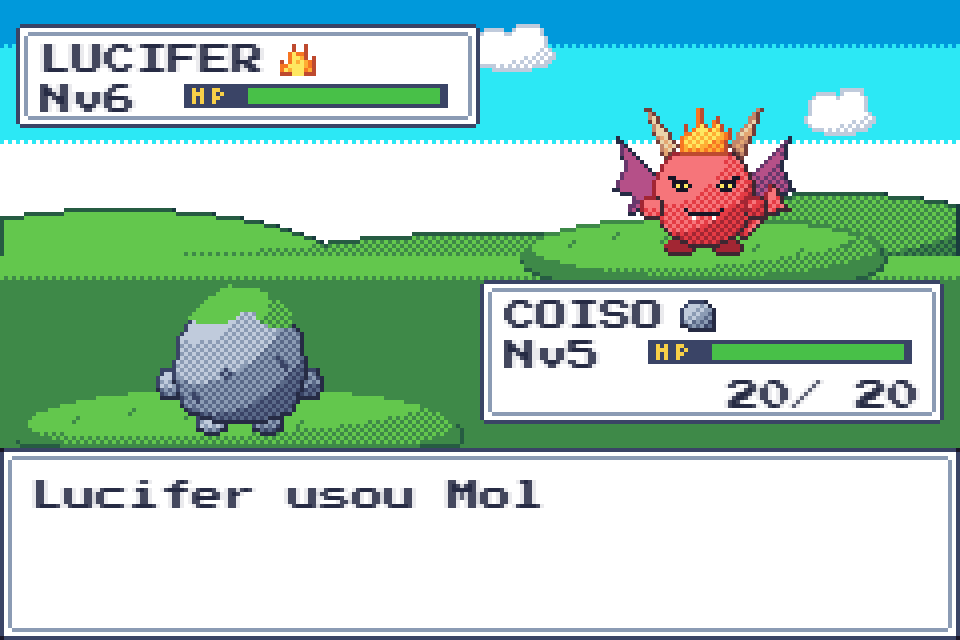
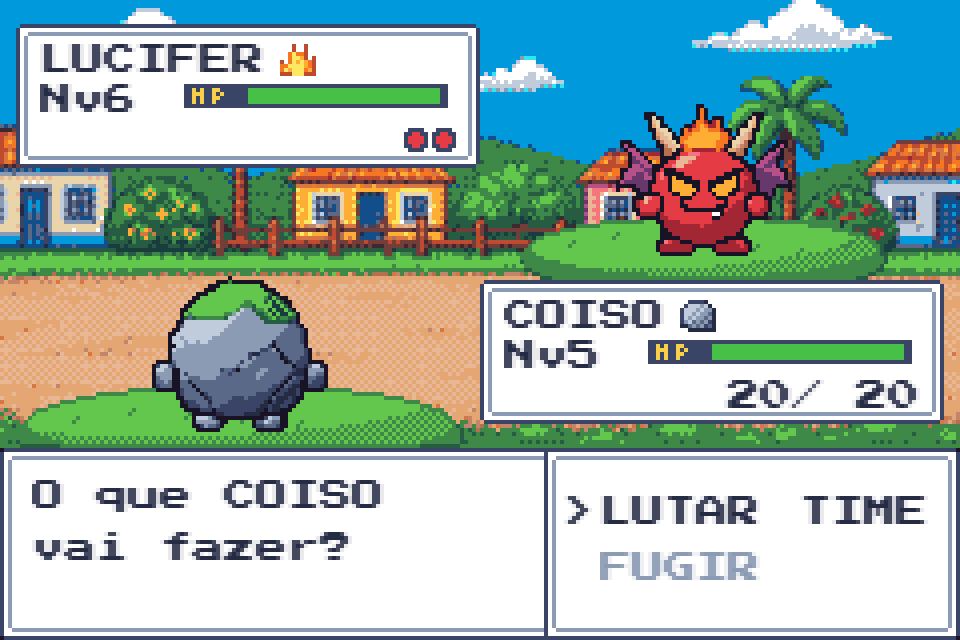
docs: refresh README art with the new sprites
The screenshots still showed the code-drawn monsters and the old hub
menu, which no longer exists. They now come from the E2E run against
the real backend, and the README opens with a banner.

diff --git a/README.md b/README.md
@@ -1,5 +1,7 @@
 # 👾 CLONEMON
 
+![CLONEMON](docs/banner.png)
+
 > The best worst monster-catching clone you've ever seen, now in pixel art.
 
 Turn-based battles against wild clonemons, a team of up to 6, XP and levels, and progress saved on the server. A full rewrite of my original console OOP project: Spring Boot + PostgreSQL on the backend and Phaser in the browser.
@@ -17,7 +19,7 @@ Turn-based battles against wild clonemons, a team of up to 6, XP and levels, and
 |---|---|
 | Backend | `Java 21`, `Spring Boot 4` (Web MVC, Data JPA, Security with JWT), `Flyway`, `PostgreSQL` |
 | Frontend | `TypeScript`, `Vite`, `Phaser 4`, Press Start 2P font |
-| Art | Pixel art generated in code, ENDESGA 32 palette |
+| Art | Pixel art in the ENDESGA 32 palette: monsters and backdrops are PNGs, the map and UI are drawn in code |
 | Tests | `JUnit 5`, `AssertJ`, `Testcontainers`, `MockMvc`, `Vitest`, `Playwright` |
 
 ## 🚀 Features
